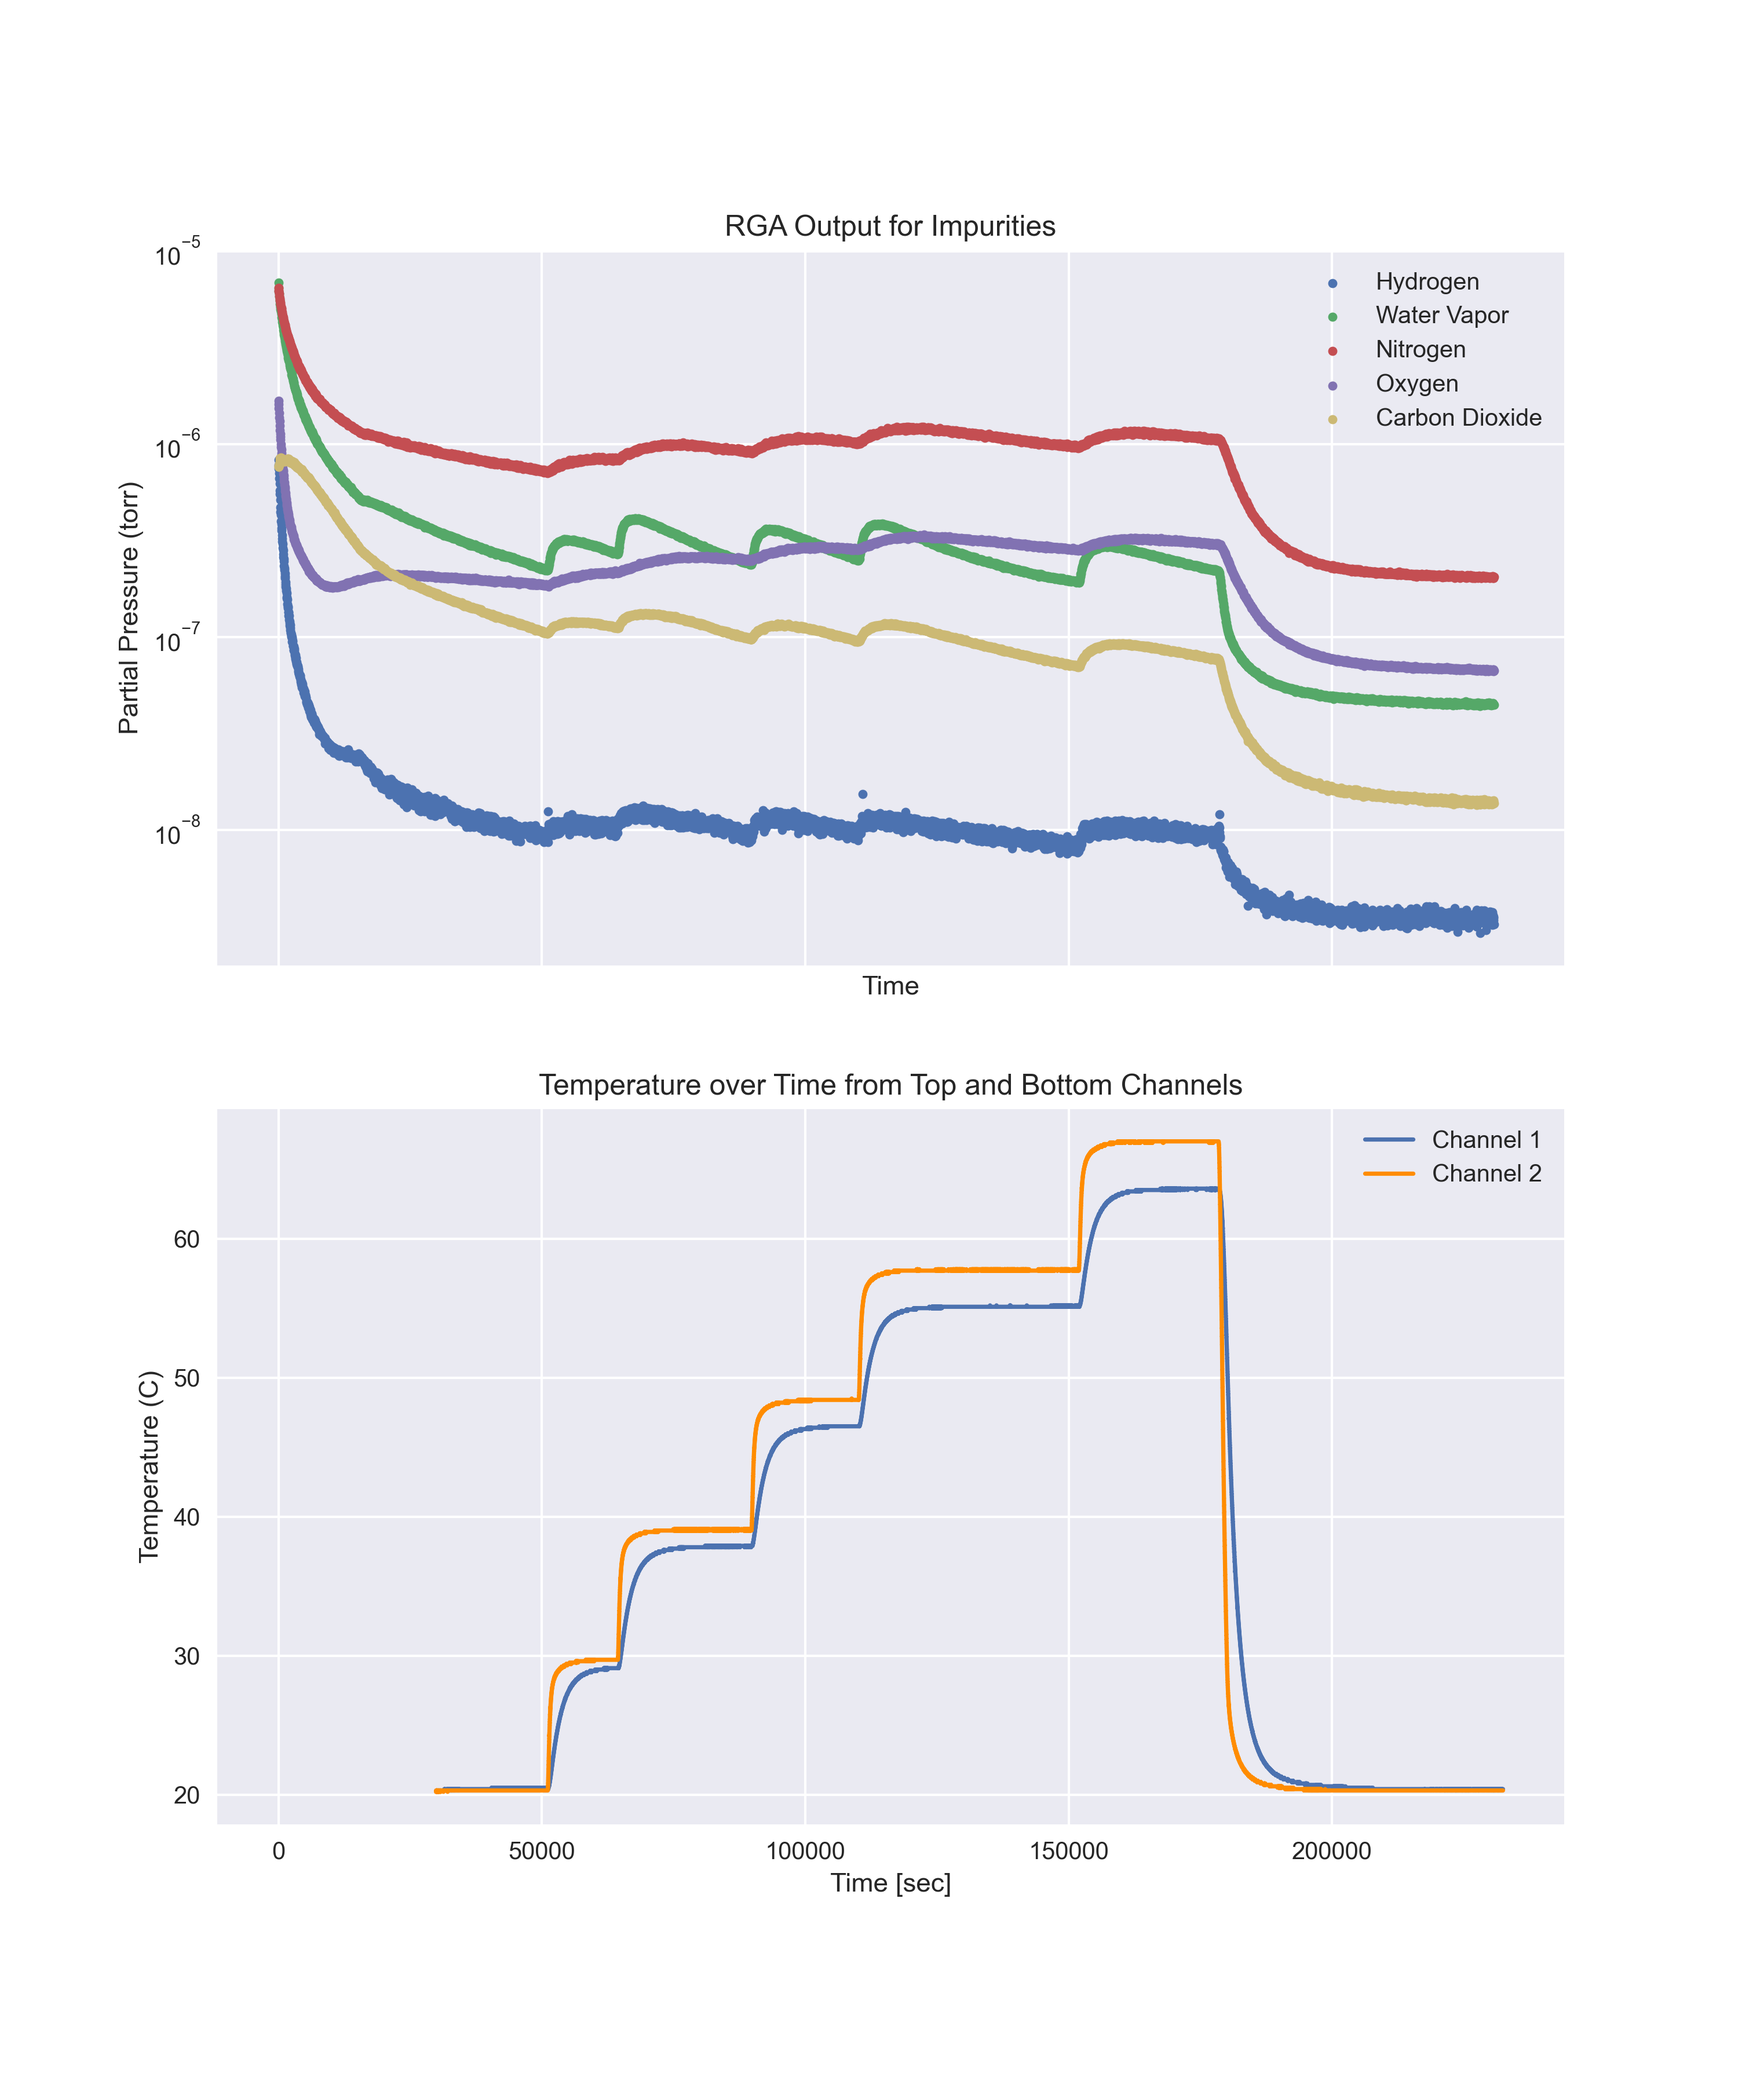
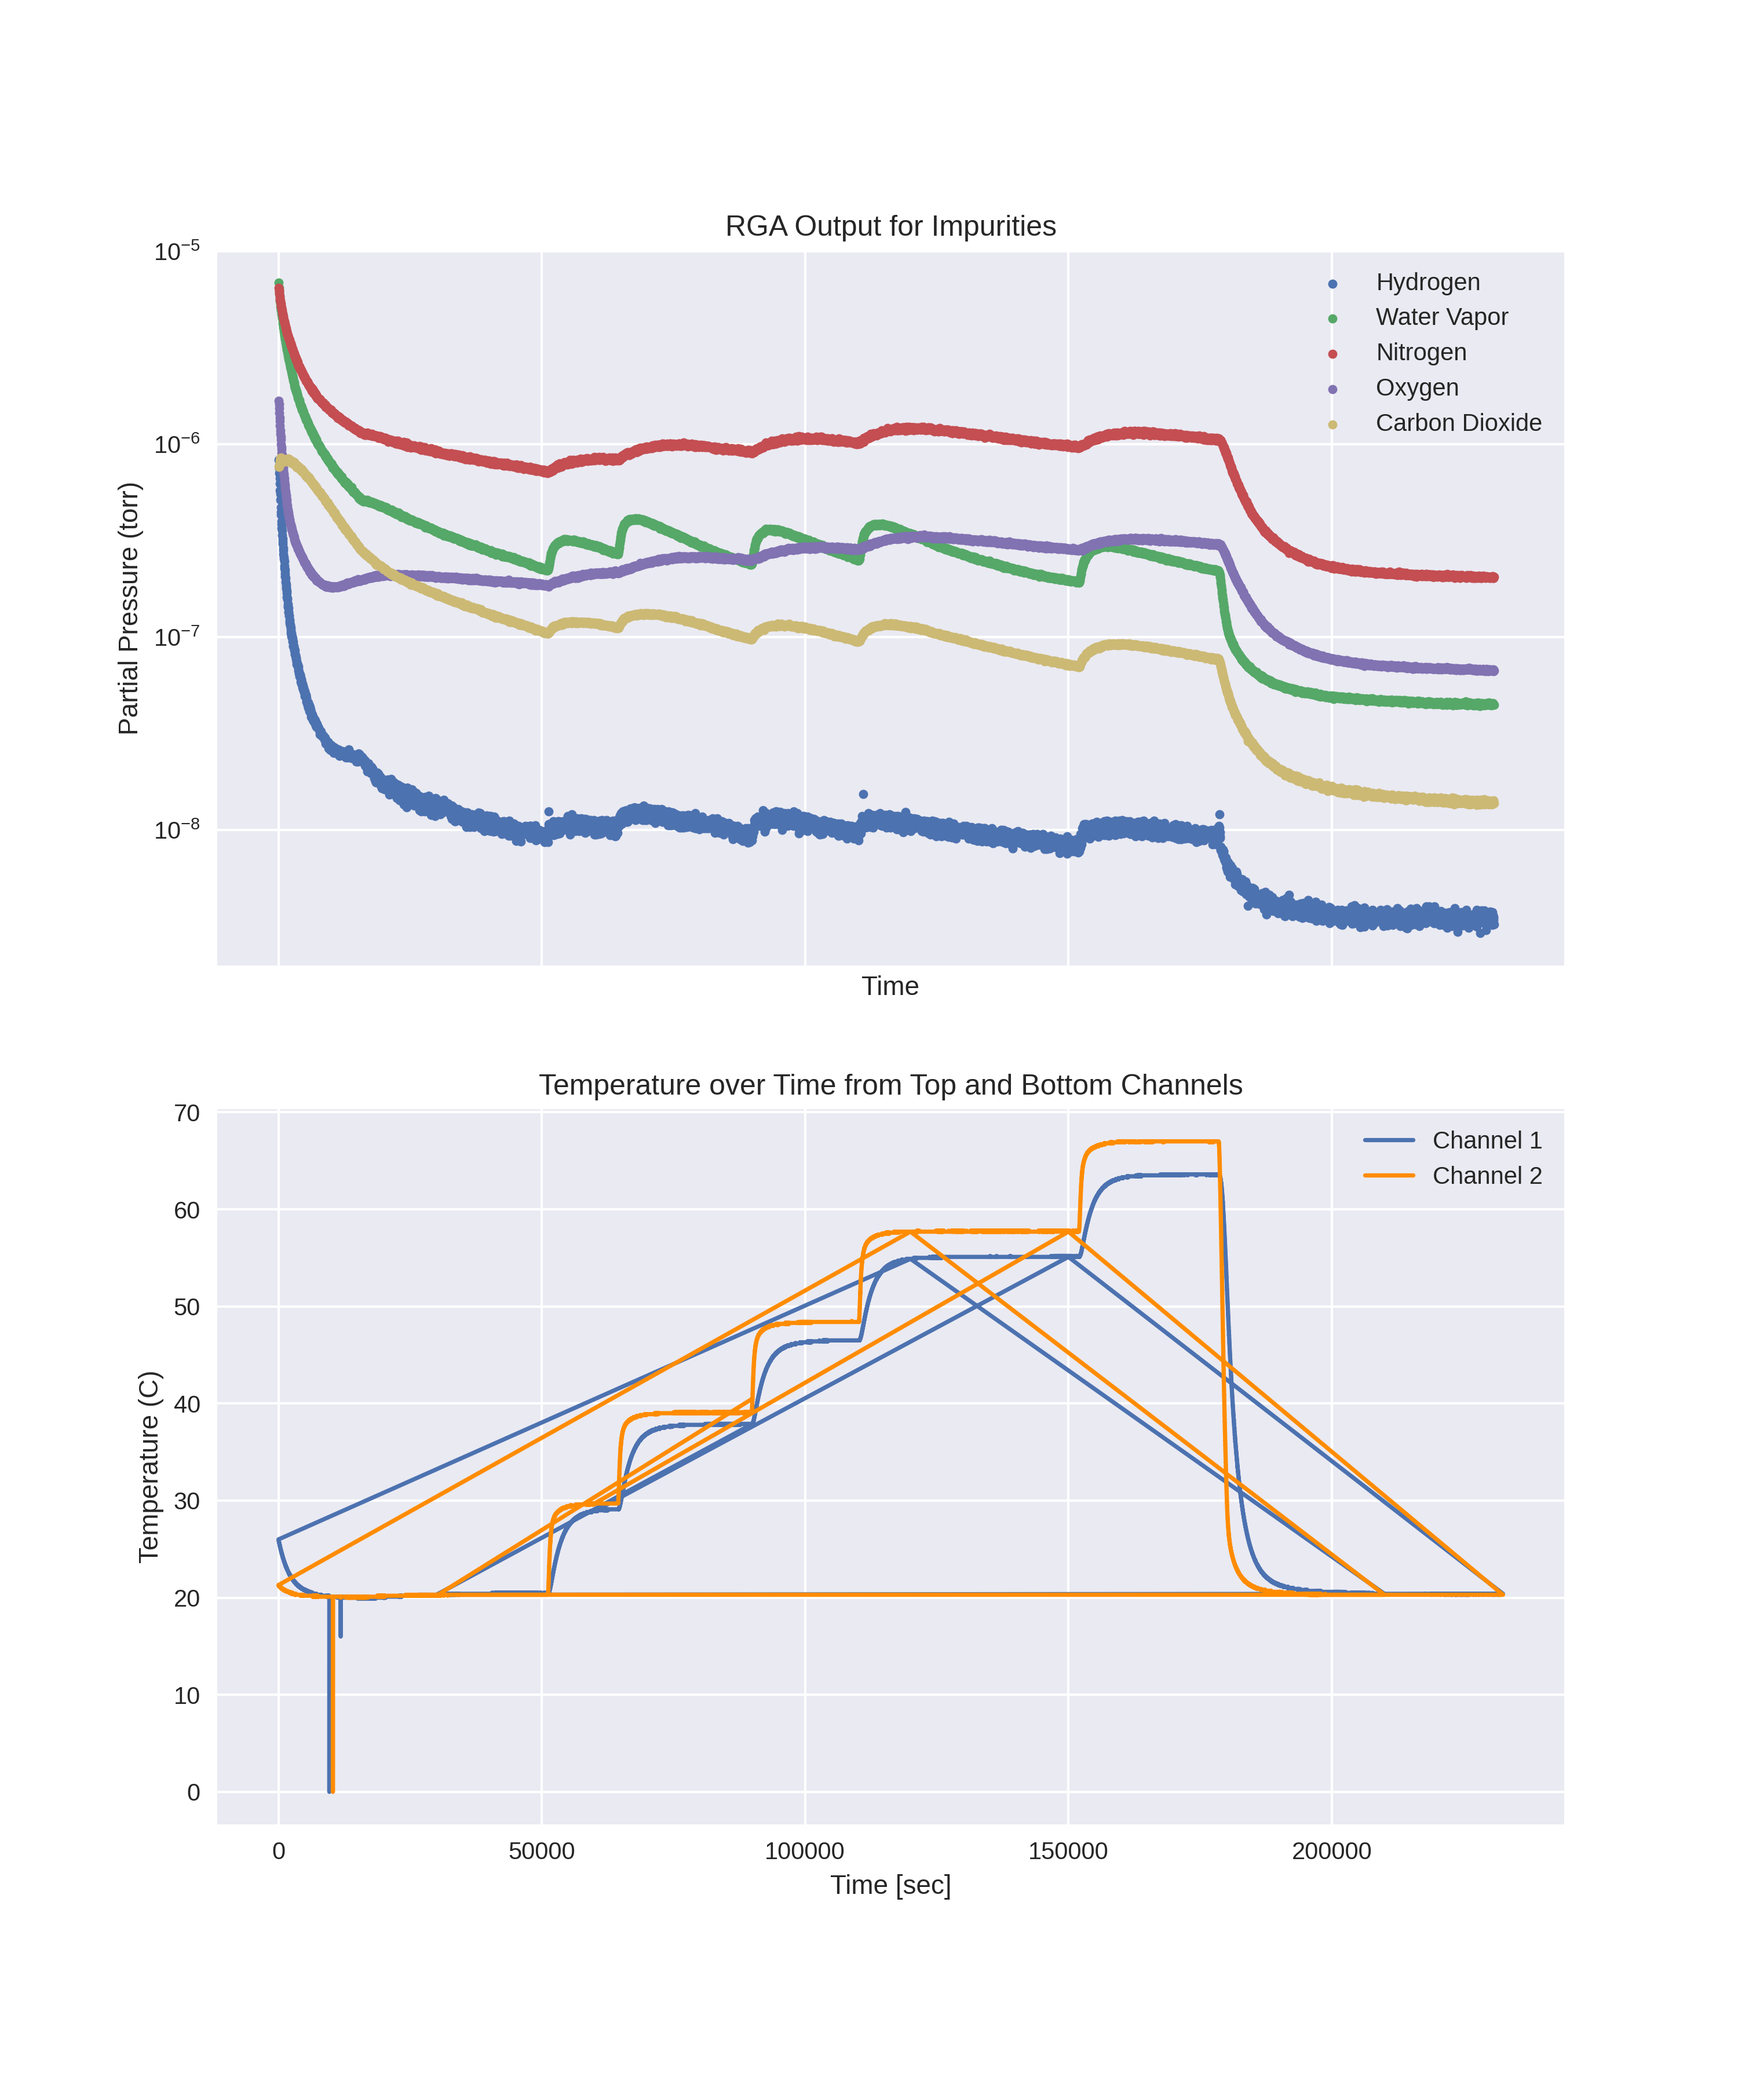
Migration to Grace cluster, data import needs to be fixed

diff --git a/data_processing/data_io.py b/data_processing/data_io.py
@@ -19,7 +19,7 @@ class DataIO:
             os.makedirs(self.ZipDir)
             with zipfile.ZipFile(File, 'r') as zip_ref:
                 zip_ref.extractall(self.ZipDir)
-        self.RGAFiles = glob.glob(self.ZipDir+'/RGA/*.txt')
+        self.RGAFiles = glob.glob(self.ZipDir+'/*.txt')
     
     def RemoveZipDir(self):
         for File in self.RGAFiles:
@@ -44,7 +44,8 @@ class DataIO:
             RGATime = np.sum(pd.read_csv(File, nrows=0).columns.values)
             RGATime = dt.strptime(RGATime, "%b %d %Y  %I:%M:%S %p")
 
-            RGAScan = pd.DataFrame(data=[[RGATime for i in range(RGAWaveform.shape[0])], RGAWaveform['Mass'], RGAWaveform['Pressure']]).T
+            RGAScan = pd.DataFrame(data=[[RGATime for i in range(RGAWaveform.shape[0])], RGAWaveform['Mass']]).T
+            RGAScan['Pressure'] = RGAWaveform['Pressure']
             RGAScan.columns = ['Datetime', 'Mass', 'Pressure']
             RGAData.append(RGAScan)
             
@@ -62,9 +63,9 @@ class DataIO:
         self.TempFiles = glob.glob(self.Path+'*.csv')
         TempData = []
         for File in self.TempFiles: 
-            RawTempData = pd.read_csv(File, sep=",", header=None, skiprows=1, usecols=[1,2,4,7])
+            RawTempData = pd.read_csv(File, sep="\t", header=None, skiprows=12, usecols=[1,2,4,7])
             RawTempData.columns = ['Date', 'Time', 'CH1', 'CH2']
-            RawTempData['Datetime'] = [dt.strptime("%s %s" % (x,y), "%m/%d/%Y  %H:%M:%S") for x,y in zip(RawTempData['Date'], RawTempData['Time'])]
+            RawTempData['Datetime'] = [dt.strptime("%s %s" % (x,y), "%Y/%m/%d  %H:%M:%S") for x,y in zip(RawTempData['Date'], RawTempData['Time'])]
             RawTempData.drop(['Date', 'Time'], axis=1)
             RawTempData.drop(RawTempData[RawTempData['CH1'] == 'Time out'].index, inplace = True)
             RawTempData.drop(RawTempData[RawTempData['CH2'] == 'Time out'].index, inplace = True)
